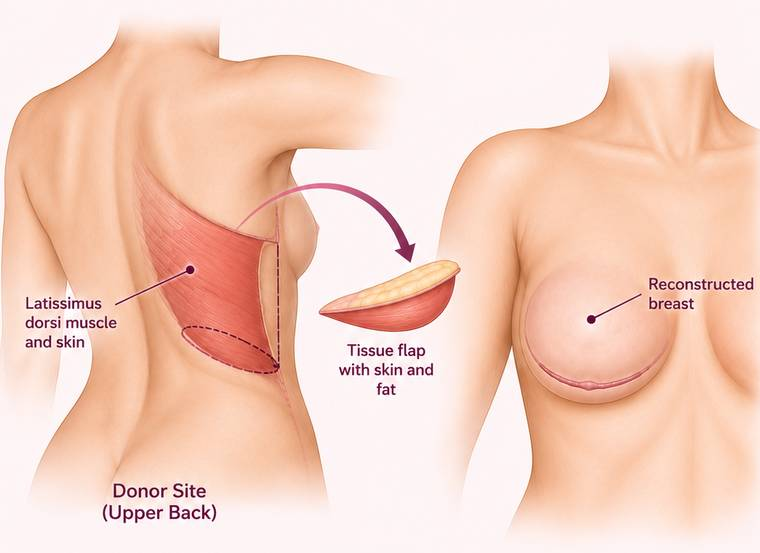
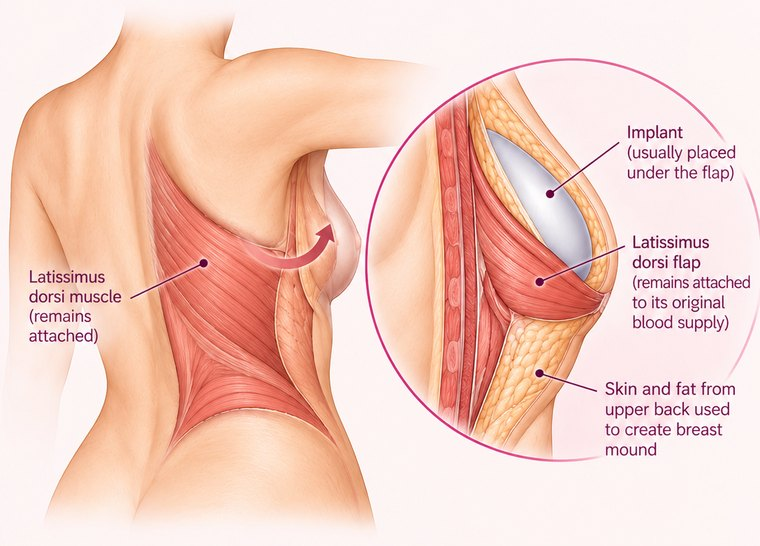
Replace the latissimus diagram with one that shows the flap staying attached
The in-image audit flagged the old illustration: it drew the flap
floating detached between the back and the chest, with a transfer
arrow. For a flap whose defining feature is that it never leaves its
blood supply, that read as a free flap and quietly contradicted the
body text, which says it stays attached.

Nicky's replacement says so twice, in the artwork where it cannot be
edited away: "Latissimus dorsi muscle (remains attached)" and
"Latissimus dorsi flap (remains attached to its original blood
supply)".

All four callouts check out against the ASPS techniques page, which
describes releasing the flap from the back, passing it "through a
tunnel that is made underneath the axilla and into the anterior chest",
and then: "An implant is then placed behind this flap and in front of
the chest." That is the new "Implant (usually placed under the flap)"
callout exactly, and the panel already told readers an implant or
expander usually sits behind the flap -- the old picture just never
showed it.

Alt text rewritten for the new illustration, since the old one
described an arrow that no longer exists, and the declared height
follows the new crop at 546.

diff --git a/index.html b/index.html
@@ -2225,7 +2225,7 @@
           <button type="button" class="recon-back" data-panel="panel-recon">&lsaquo; All options</button>
           <h2>Latissimus Dorsi Flap</h2>
           <div class="recon-art">
-            <img src="images/recon-lat.jpg" alt="The latissimus dorsi muscle and skin marked on the upper back, with an arrow showing the tissue moved to the chest" loading="lazy" width="760" height="553" />
+            <img src="images/recon-lat.jpg" alt="The latissimus dorsi muscle on the upper back, still attached, beside a cutaway showing the flap brought round to the chest with its original blood supply intact and an implant placed behind it" loading="lazy" width="760" height="546" />
           </div>
           <p class="recon-body">Uses skin, fat and muscle from the upper back, tunneled through the armpit to the chest while staying attached to its own blood supply — this is called a pedicled flap, so the vessels don't need reconnecting. An implant or expander is usually placed behind it to reach the size wanted. The ASPS notes it is often chosen after radiation, because it brings healthy skin and new blood supply to the treated area. It is the one flap here that moves a working muscle, so ask your surgeon what to expect for shoulder and back function.</p>
           <p class="recon-src">Sources: <a href="https://www.plasticsurgery.org/reconstructive-procedures/breast-reconstruction/techniques" target="_blank" rel="noopener">American Society of Plastic Surgeons</a>; <a href="https://www.cancer.gov/types/breast/treatment/surgery/breast-reconstruction" target="_blank" rel="noopener">National Cancer Institute</a>; <a href="https://www.cancer.org/cancer/types/breast-cancer/reconstruction-surgery/breast-reconstruction-options/breast-reconstruction-using-your-own-tissues-flap-procedures.html" target="_blank" rel="noopener">American Cancer Society</a>.</p>
